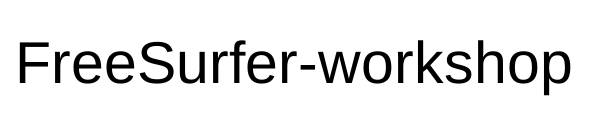
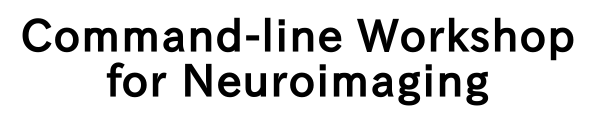
Update websites

Changed region(s): [[0.03, 0.125, 0.96, 0.8438]]

diff --git a/docs/index.html b/docs/index.html
@@ -8,7 +8,7 @@
 <head>
 <link rel="shortcut icon" href="img/cbsn.ico" type="image/vnd.microsoft.icon">
 <meta http-equiv="Content-Type" content="text/html; charset=UTF-8" />
-<title>2018-11-18 FreeSurfer勉強会</title>
+<title>2019-02-10 コマンドライン習得勉強会</title>
 <style type="text/css">
 
 <!--
@@ -144,7 +144,7 @@ ul.nav a { zoom: 1; }
     </ul>
   </div>
   <div class="content">
-  <h1>脳画像解析のためのコマンドライン習得勉強会の概要</h1>
+  <h1>脳画像解析のためのコマンドライン習得勉強会</h1>
     <p>ここは、2019年02月10日に開催予定である<strong>『脳画像解析のためのコマンドライン習得勉強会』</strong>の受講者を対象とした情報提供サイトです。新しい情報があれば、随時このサイトへ追加していきますので、定期的にアクセスするようにして下さい。<strong>講義の内容や事前に必要な準備については、左のメニューから[勉強会の詳細]のページに進んでご確認下さい。</strong></p>
 
 

diff --git a/docs/shell.html b/docs/shell.html
@@ -8,7 +8,7 @@
 <head>
 <link rel="shortcut icon" href="img/cbsn.ico" type="image/vnd.microsoft.icon">
 <meta http-equiv="Content-Type" content="text/html; charset=UTF-8" />
-<title>2018-11-18 FreeSurfer勉強会</title>
+<title>2019-02-10 コマンドライン習得勉強会</title>
 <style type="text/css">
 
 <!--
